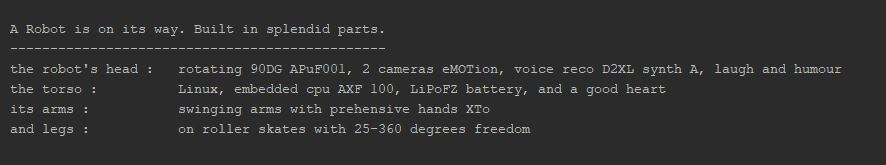
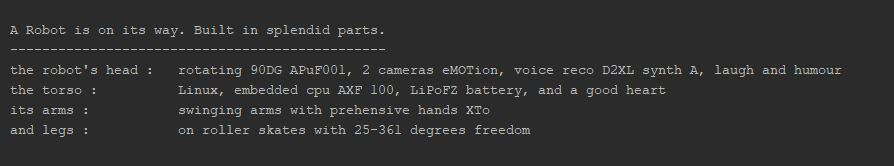
update

diff --git a/InRobotStyle/OldRobotBuilder.java b/InRobotStyle/OldRobotBuilder.java
@@ -25,7 +25,7 @@ public class OldRobotBuilder implements RobotBuilder {
 
     @Override
     public void buildRobotLegs() {
-        robot.setRobotLegs("on roller skates with 25-360 degrees freedom");
+        robot.setRobotLegs("on roller skates with 25-361 degrees freedom");
     }
 
     //@Override
